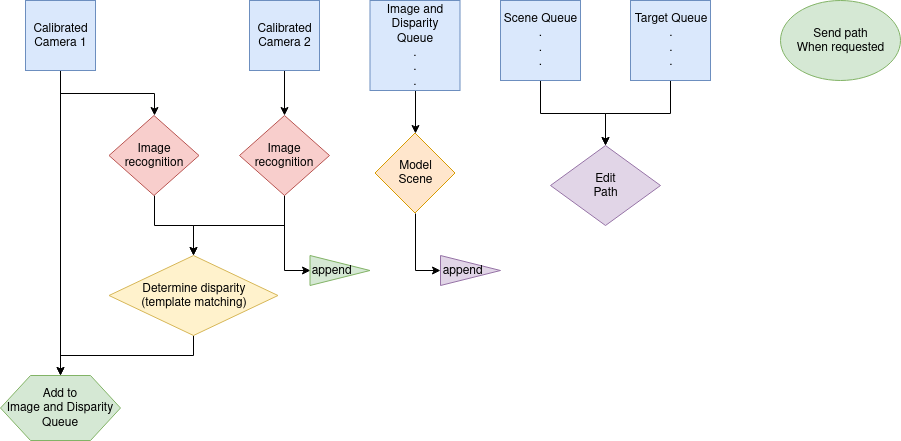
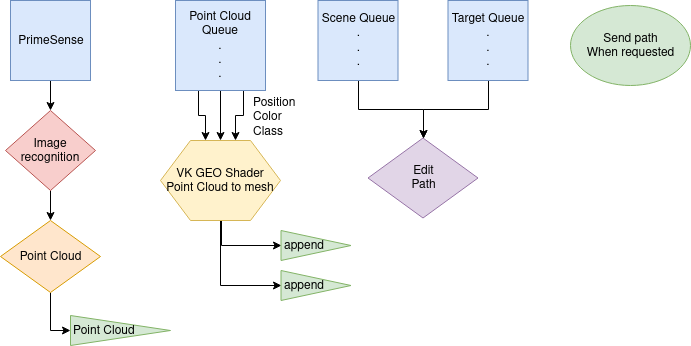
Old

diff --git a/src/main.rs b/src/main.rs
@@ -107,6 +107,11 @@ struct Path {
 
 #[tokio::main]
 async fn main() -> Result<(), Box<dyn std::error::Error>> {
+    openni2::init()?;
+    let device = Device::open_default()?;
+    let depth = device.create_stream(SensorType::DEPTH)?;
+    // let color = device.create_stream(SensorType::COLOR).unwrap();
+
     let img_disparity_queue: Arc<Mutex<Vec<(Vec<u8>, Vec<u8>)>>> = Arc::new(Mutex::new(Vec::new()));
     let (not_empty_tx, mut not_empty_rx) = mpsc::channel(1);
     let target_queue: Arc<Mutex<Vec<Target>>> = Arc::new(Mutex::new(Vec::new()));
@@ -249,4 +254,230 @@ async fn process_scene((img_disparity_queue, not_empty): (Arc<Mutex<Vec<(Vec<u8>
 
 async fn append_scene((img_disparity_queue, not_empty): (Arc<Mutex<Vec<(Vec<u8>, Vec<u8>)>>>, &mut Receiver<()>), scene: Arc<Mutex<Scene>>) {
     // I don't intend to recreate instance and structure every frame.
-    // In a few commits when
+    // In a few commits when vk is functioning I will bring these to
+    // main(). For now I want to keep this structure contained.
+    
+    // TODOs
+    //  + Get new vko working
+
+    let instance = Instance::new(
+        None,
+        Version::default(),
+        &InstanceExtensions::none(),
+        None
+    ).expect("failed to create instance");
+
+    let physical = PhysicalDevice::enumerate(&instance).next().unwrap();
+    
+    let queue_family = physical.queue_families()
+        .find(|&q| q.supports_compute()).unwrap();
+    
+    let device_ext = DeviceExtensions{
+        khr_storage_buffer_storage_class: true,
+        ..DeviceExtensions::none()
+    };
+
+    let (device, mut queues) = Device::new(
+        physical.clone(),
+        &Features::none(),
+        &device_ext,
+        [(queue_family, 0.5)].iter().cloned()
+    ).unwrap();
+
+    let queue = queues.next().unwrap();
+
+    let image = StorageImage::new(
+        device.clone(),
+        ImageDimensions::Dim2d {
+            width: 1024,
+            height: 1024,
+            array_layers: 1,
+        },
+        Format::R8G8B8A8_UNORM,
+        Some(queue.family())
+    ).unwrap();
+
+    let sampler_img1 = Sampler::new(
+        device.clone(),
+        Filter::Nearest,
+        Filter::Nearest,
+        vulkano::sampler::MipmapMode::Nearest,
+        SamplerAddressMode::ClampToEdge,
+        SamplerAddressMode::ClampToEdge,
+        SamplerAddressMode::ClampToEdge,
+        0.0,
+        1.0,
+        0.0,
+        0.0
+    ).unwrap();
+    let sampler_img2 = Sampler::new(
+        device.clone(),
+        Filter::Nearest,
+        Filter::Nearest,
+        vulkano::sampler::MipmapMode::Nearest,
+        SamplerAddressMode::ClampToEdge,
+        SamplerAddressMode::ClampToEdge,
+        SamplerAddressMode::ClampToEdge,
+        0.0,
+        1.0,
+        0.0,
+        0.0
+    ).unwrap();
+
+    mod cs {
+        vulkano_shaders::shader!{
+            ty: "compute",
+            path: "src/shader.glsl"
+        }
+    }
+
+    let fractal_shader = cs::Shader::load(device.clone()).expect("failed to create fractal shader");
+
+    let compute_pipeline = ComputePipeline::new(
+            device.clone(),
+            &fractal_shader.main_entry_point(),
+            &(),
+            None,
+            |_| {}
+        ).unwrap();
+
+    let layout = compute_pipeline.layout().descriptor_set_layouts().get(0).unwrap();
+
+    let (img_camera1_raw, img_camera2_raw) = img_disparity_queue.lock().await.pop().unwrap();
+    
+    let dimensions = ImageDimensions::Dim2d {
+        width: 1024,
+        height: 1024,
+        array_layers: 1
+    };
+    let (img_camera1, gpufuture_camera1) = ImmutableImage::from_iter(
+            img_camera1_raw.iter().cloned(),
+            dimensions,
+            MipmapsCount::One,
+            Format::R8G8B8A8_SRGB,
+            queue.clone(),
+        ).unwrap();
+    let (img_camera2, gpufuture_camera2) = ImmutableImage::from_iter(
+            img_camera2_raw.iter().cloned(),
+            dimensions,
+            MipmapsCount::One,
+            Format::R8G8B8A8_SRGB,
+            queue.clone(),
+        ).unwrap();
+
+    let imgview_camera1 = ImageView::new(img_camera1).unwrap();
+    let imgview_camera2 = ImageView::new(img_camera2).unwrap();
+
+    let set = PersistentDescriptorSet::start(layout.clone());
+    let set = set
+        .add_sampled_image(imgview_camera1, sampler_img1).unwrap()
+        .add_sampled_image(imgview_camera2, sampler_img2).unwrap()
+        .add_image(ImageView::new(image.clone()).unwrap()).unwrap();
+
+    let set = set.build().unwrap();
+
+    let dest = CpuAccessibleBuffer::from_iter(
+        device.clone(), 
+        BufferUsage::all(), 
+        false,
+        (0 .. 1024 * 1024 * 4).map(|_| 0u8)
+    ).expect("failed to create buffer");
+
+    let mut builder = AutoCommandBufferBuilder::primary(
+        device.clone(),
+        queue.family(),
+        CommandBufferUsage::MultipleSubmit,
+    ).unwrap();
+
+    // wait for there to be something to pop
+    if img_disparity_queue.lock().await.len() == 0 { not_empty.recv().await; }
+
+    builder
+        .bind_pipeline_compute(compute_pipeline.clone())
+        .bind_descriptor_sets(
+            PipelineBindPoint::Compute,
+            compute_pipeline.layout().clone(),
+            0,
+            set.clone()
+        )
+        .dispatch([1024 / 8, 1024 / 8, 1]).unwrap()
+        .copy_image_to_buffer(
+            image.clone(),
+            dest.clone()
+        ).unwrap();
+    let command_buffer = builder.build().unwrap();
+
+    command_buffer.execute(queue.clone()).unwrap()
+        .then_signal_fence_and_flush().unwrap()
+        .wait(None).unwrap();
+
+    let buffer_content = dest.read().unwrap();
+    let scene_image = ImageBuffer::<Rgba<u8>, _>::from_raw(1024, 1024, &buffer_content[..]).unwrap();
+    let filtered_scene_image = image::imageops::resize(&scene_image, 1024/MAP_PX_DROP, 1024/MAP_PX_DROP, FilterType::Nearest);
+
+    #[inline]
+    fn decode(px: [u8; 4]) -> (f32, f32, f32){
+        // 4 bytes = 32 bits = 10.66 bits per dimension = 1024 values per dimension but if we agree to 1/z being stored we get a lot more accuracy from the points that matter
+        (0.0, 0.0, 0.0)
+    }
+    // Pretransformed to position via giro input
+    let new_scene_data = filtered_scene_image.pixels().map(|px| decode(px.0));
+
+    let mut scene_lock = scene.lock().await;
+    scene_lock.integrate(new_scene_data);
+}
+
+async fn modify_path(path: Arc<Mutex<Path>>, target_queue: Arc<Mutex<Vec<Target>>>, scene: Arc<Mutex<Scene>>) {
+    todo!();
+}
+
+async fn handle_path_request(path: Arc<Mutex<Path>>) -> Result<(), Box<dyn std::error::Error + Send + Sync>> {
+    let listener = TcpListener::bind("127.0.0.1:8080").await?;
+
+    loop {
+        let (mut socket, _) = listener.accept().await?;
+
+        let path = path.clone();
+        tokio::spawn(async move {
+            let mut buf = [0; 7];
+            loop {
+                match socket.read(&mut buf).await {
+                    // socket closed
+                    Ok(n) if n == 0 => return,
+                    Ok(n) => n,
+                    Err(e) => {
+                        eprintln!("failed to read from socket; err = {:?}", e);
+                        return;
+                    }
+                };
+                let path = path.clone();
+                match &buf {
+                    b"NewPath" => {
+                        let mut lock = path.lock().await;
+                        *lock = {
+                            let created = Instant::now();
+                            Path {
+                                created,
+                                modified: created,
+                                directions: Vec::new(),
+                            }
+                        };
+                        socket.write(b"OK").await;
+                    },
+                    b"GetPath" => {
+                        let path_lock = path.lock().await;
+                        if let Err(e) = socket.write_all(&path_lock.directions[..]).await {
+                            eprintln!("failed to write to socket; err = {:?}", e);
+                            return;
+                        }
+                    },
+                    request => {
+                        eprintln!("formatting err {:?} is not a request", std::str::from_utf8(request));
+                        return;
+                    }
+                }
+            }
+        });
+    }
+}
+
